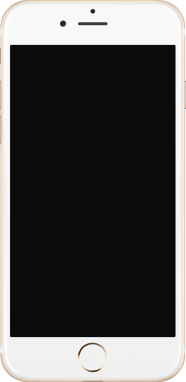
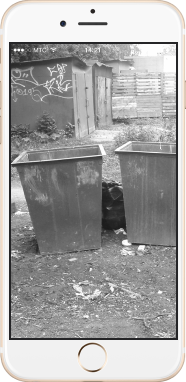
photo

diff --git a/index.html b/index.html
@@ -66,13 +66,13 @@
             <p>Приложение позволит вам<br> победить осеннюю хандру<br> и депрессию буквально в<br> несколько кликов!</p>    
             </li>
             <li>
-            <img src="img/iphone-1.png">
+            <img src="img/iphone-2.png">
             <img src="img/pod.png">      
             <h2>Меняет мир<br> вокруг</h2>
             <p>Сделайте снимок и<br> украсьте его смайликом<br> или текстовой подписью,<br> чтобы усилить эффект</p>    
             </li>
             <li>
-            <img src="img/iphone-1.png">
+            <img src="img/iphone-3.png">
             <img src="img/pod.png">      
             <h2>Заводит<br> новых друзей</h2>
             <p>Ставьте лайки,<br> комментируйте, делитесь<br> фотографиями с друзьями<br> и заводите новых</p>    
